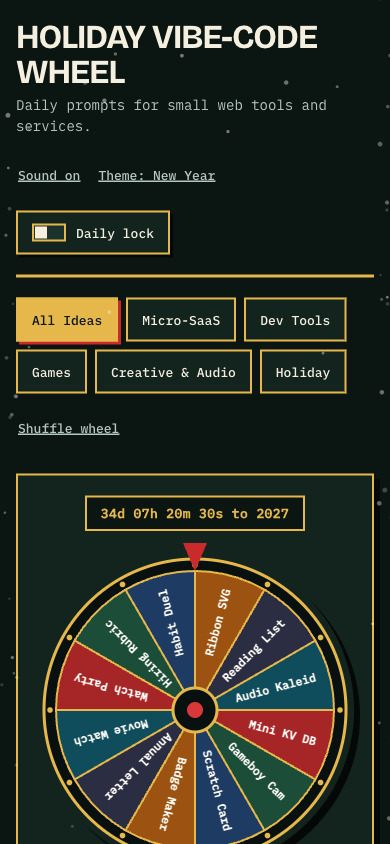
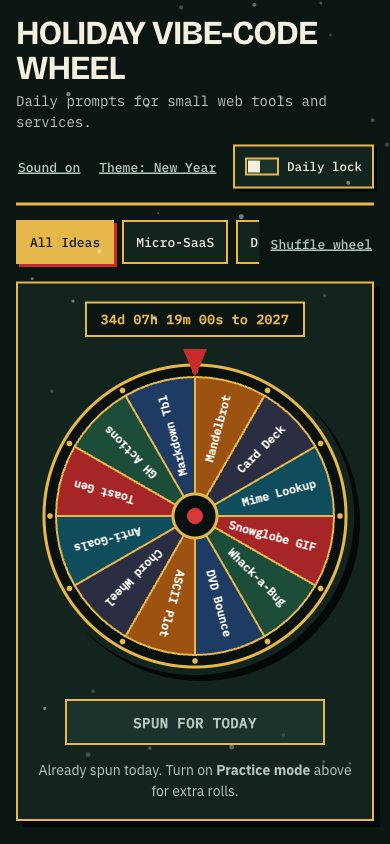
Compact mobile topbar and deck strip onto single rows without wasted space

diff --git a/src/index.css b/src/index.css
@@ -464,11 +464,57 @@ a:focus-visible,
 
 @media (max-width: 600px) {
   .app-shell {
-    padding: 20px 16px 48px;
+    padding: 16px 16px 48px;
+  }
+
+  .topbar {
+    gap: 12px;
+    padding-bottom: 14px;
+    margin-bottom: 14px;
+  }
+
+  .topbar-controls {
+    width: 100%;
+    justify-content: space-between;
+    gap: 8px;
+  }
+
+  .mode-toggle {
+    padding: 0 10px;
+    gap: 8px;
+    font-size: 12.5px;
+  }
+
+  .deck-bar {
+    flex-wrap: nowrap;
+    gap: 10px;
+    margin-bottom: 14px;
+  }
+
+  .deck-tabs {
+    flex: 1;
+    min-width: 0;
+    flex-wrap: nowrap;
+    overflow-x: auto;
+    scrollbar-width: none;
+    padding-bottom: 4px;
+  }
+
+  .deck-tabs::-webkit-scrollbar {
+    display: none;
+  }
+
+  .deck-tab {
+    flex-shrink: 0;
+    padding: 0 12px;
+  }
+
+  .deck-bar .topbar-text-btn {
+    flex-shrink: 0;
   }
 
   .wheel-section {
-    padding: 20px 16px;
+    padding: 18px 16px;
   }
 
   .panel {
